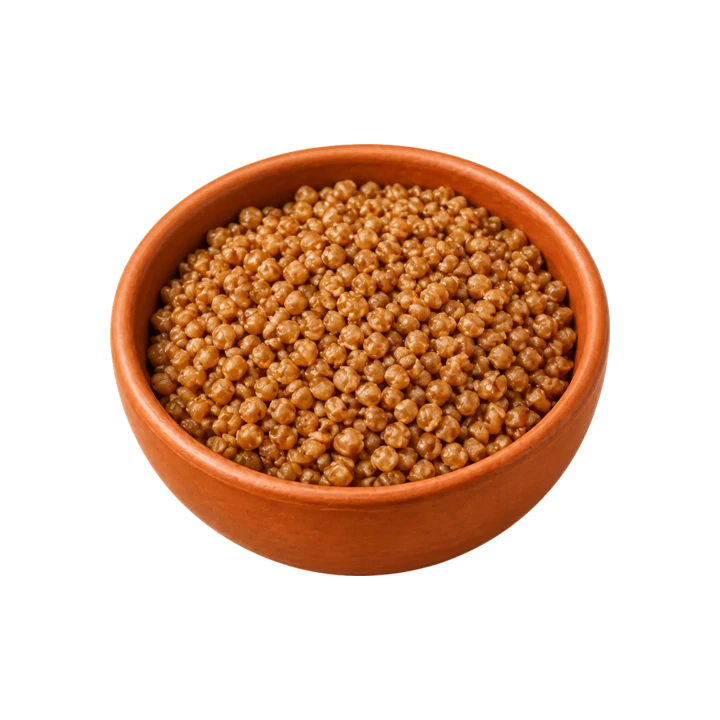
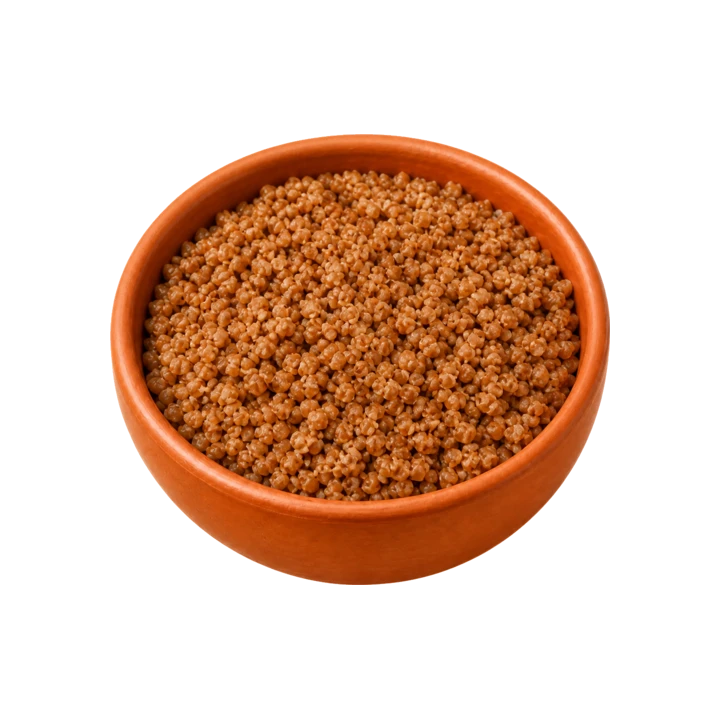
Refine buckwheat grain shape

Changed region(s): [[0.1528, 0.1833, 0.8556, 0.825]]

diff --git a/app/game-data.ts b/app/game-data.ts
@@ -20,7 +20,7 @@ export type FoodItem = {
 };
 
 export const ROUND_SIZE = 20;
-const PRODUCT_IMAGE_VERSION = "20260902-2";
+const PRODUCT_IMAGE_VERSION = "20260902-3";
 
 export const LEVELS: LevelDefinition[] = [
   {
